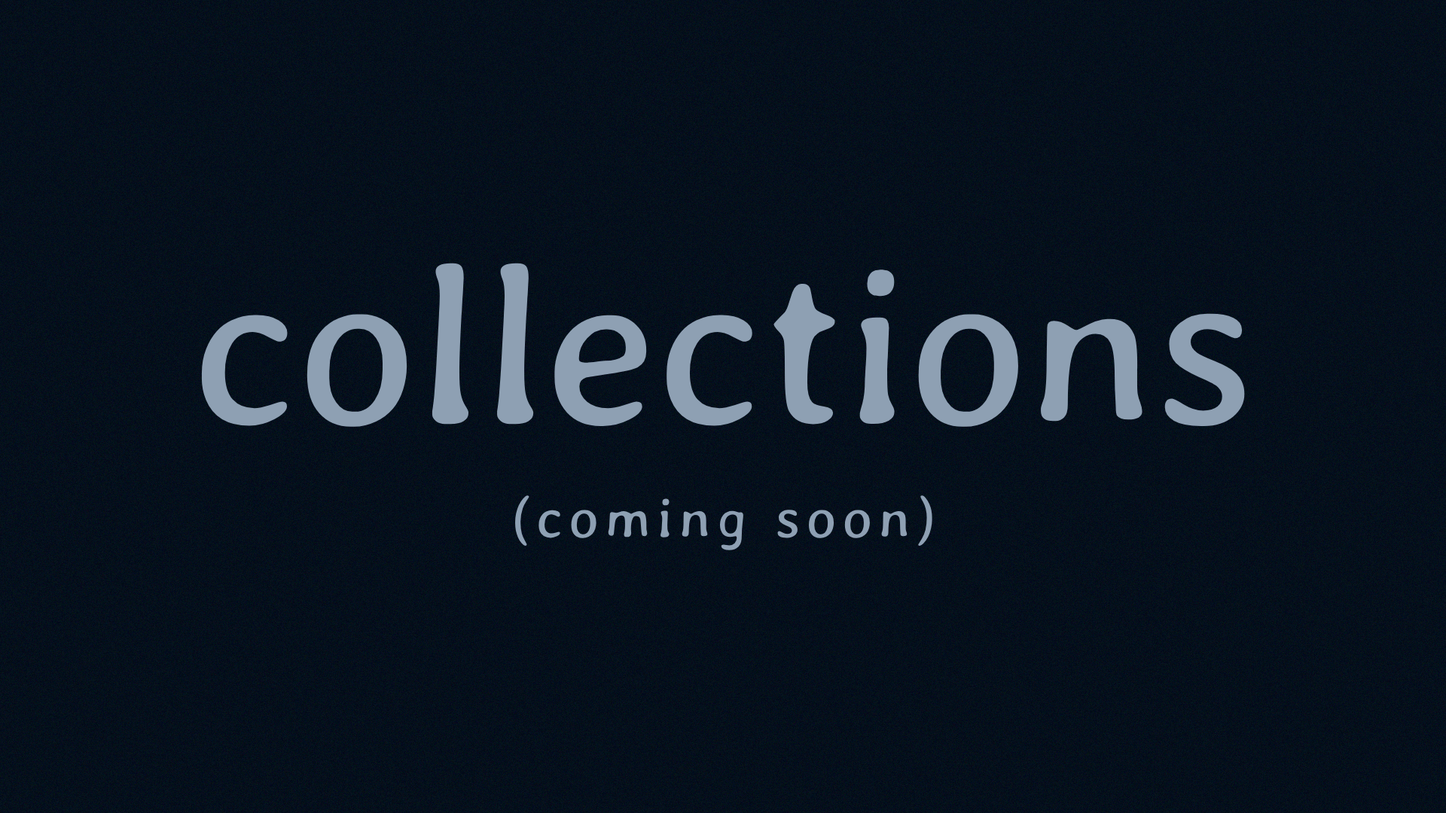
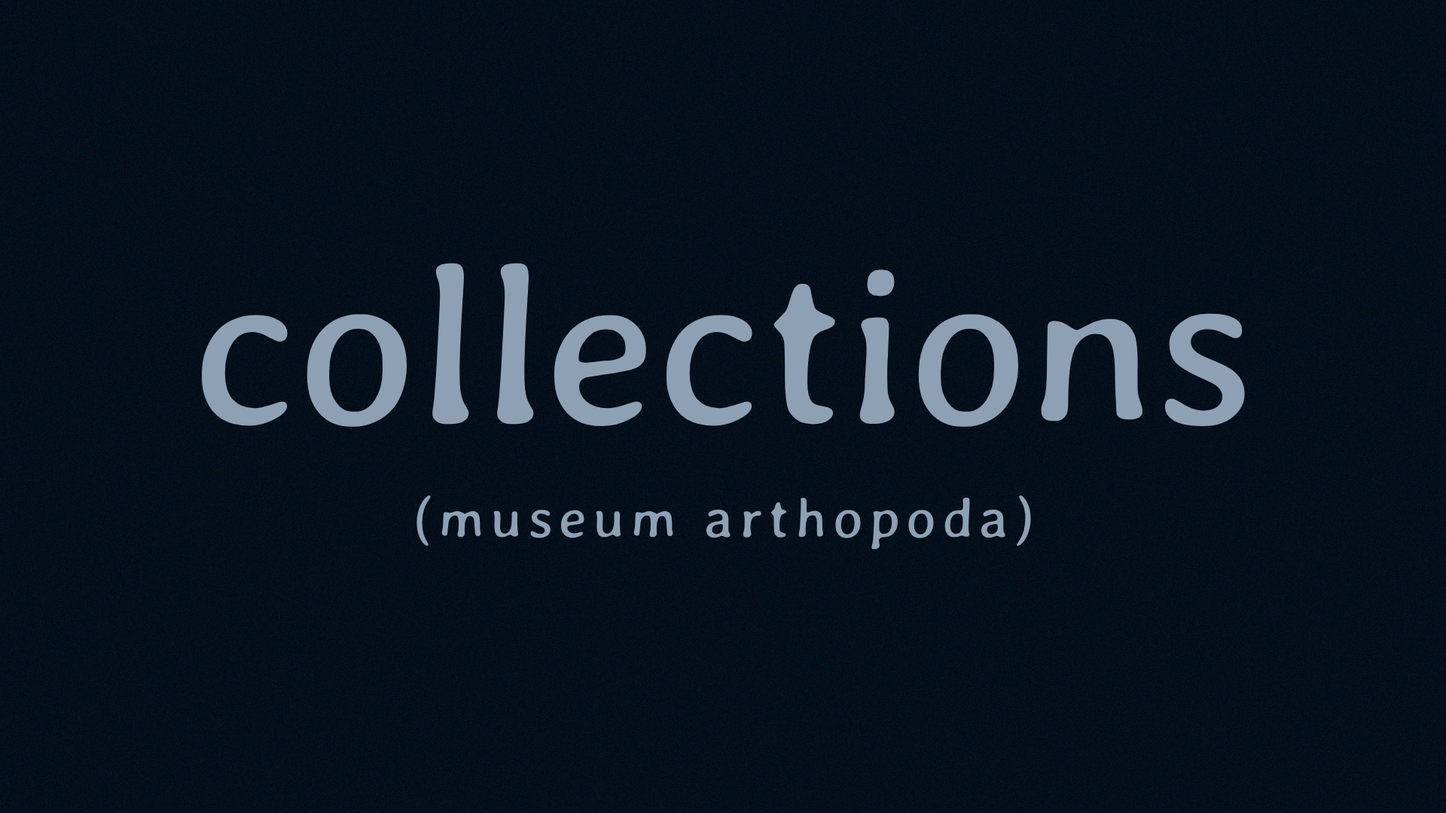
Additions. fix museum.

Changed region(s): [[0.2812, 0.6111, 0.7188, 0.6722]]

diff --git a/app/do-we-all-dream/page.tsx b/app/do-we-all-dream/page.tsx
@@ -1,16 +1,29 @@
 // app/tracks/intro/page.tsx
 "use client"; // Mark this as a client-side component if you use hooks like useParams
+import styles from "../../styles/Basic_page.module.css";
 
 export default function IntroTrackPage() {
   return (
-    <div className="track-page">
-      <h1>Do We All Dream</h1>
-      <p>This is the page for Do We All Dream</p>
-      <img
-        src="/tracks/circadia.jpg"
-        alt="Track 11: Do We All Dream"
-        className="track-image"
-      />
+    <div className={styles.basicpage_background_blue}>
+      <p style={{ fontFamily: "blzee", fontSize: "3rem", color: "aliceblue"}}>I want to believe<br></br>
+      We're all the same<br></br>
+      That we go to the same place when<br></br>
+      We all close our eyes<br></br>
+      And make lovely colors dance<br></br>
+      Hand in hand<br></br>
+      Will I see you there?<br></br>
+      On the shore of placid waters<br></br>
+      With gentle stars above and<br></br>
+      Soft sands below<br></br>
+      And will I hear you?<br></br>
+      Wings and feet and whispers and stings<br></br>
+      Do we all dream?<br></br>
+      Will we all be there?<br></br></p>
+
+      <img src="tracks/do_we_all_dream_content_001.png" alt="bedbugs" style={{ display: "flex", margin: "0 auto", paddingBottom: "3rem", maxWidth: "800px"}}></img>
+
+      <img src="tracks/do_we_all_dream_content_002.png" alt="bedbugs" style={{ display: "flex", margin: "0 auto", paddingBottom: "3rem", maxWidth: "800px"}}></img>
+
     </div>
   );
 }

diff --git a/app/api/upload/route.ts b/app/api/upload/route.ts
@@ -25,21 +25,25 @@ function uploadBufferToCloudinary(buffer: Buffer): Promise<UploadApiResponse> {
 }
 
 export async function POST(req: Request) {
-  const formData = await req.formData();
-  const file = formData.get("file");
+  try {
+    const formData = await req.formData();
+    const file = formData.get("file");
 
-  if (!file || typeof file === "string") {
-    console.error("Invalid file:", file);
-    return NextResponse.json({ success: false, error: "No file uploaded" }, { status: 400 });
+    if (!file || typeof file === "string") {
+      console.error("Invalid file:", file);
+      return NextResponse.json({ success: false, error: "No file uploaded" }, { status: 400 });
+    }
+
+    const buffer = Buffer.from(await (file as Blob).arrayBuffer());
+
+    const result = await uploadBufferToCloudinary(buffer);
+
+    const secureUrl = result.secure_url.replace('/upload/', '/upload/f_auto/');
+
+    return NextResponse.json({ success: true, secure_url: secureUrl });
+  } catch (error) {
+    console.error("Upload failed:", error);
+    return NextResponse.json({ success: false, error: "Upload failed" }, { status: 500 });
   }
-
-  const buffer = Buffer.from(await (file as Blob).arrayBuffer());
-
-  const result = await uploadBufferToCloudinary(buffer);
-
-  const secureUrl = result.secure_url.replace('/upload/', '/upload/f_auto/');
-
-  // return NextResponse.json({ success: true, secure_url: result.secure_url });
-
-  return NextResponse.json({ success: true, secure_url: secureUrl });
 }
+

diff --git a/app/undeniable-truths/page.tsx b/app/undeniable-truths/page.tsx
@@ -1,16 +1,39 @@
 // app/tracks/intro/page.tsx
 "use client"; // Mark this as a client-side component if you use hooks like useParams
+import styles from '../../styles/Basic_page.module.css';
+
+
 
 export default function IntroTrackPage() {
   return (
-    <div className="track-page">
-      <h1>In Amber</h1>
-      <p>This is the page for Gossamer!!!!!!!</p>
-      <img
-        src="/tracks/circadia.jpg"
-        alt="Track 1: Intro"
-        className="track-image"
-      />
+
+
+    <div className={styles.basicpage_background_blue}>
+
+        <iframe
+          width="100%"
+          height="500"
+          src="https://youtu.be/0iPv9sL2sMk"
+          title="YouTube video player"
+          frameBorder="0"
+          allow="accelerometer; autoplay; clipboard-write; encrypted-media; gyroscope; picture-in-picture"
+          allowFullScreen
+        />
+
+        <p>
+          The undeniable.<br></br>
+          You're made of everything.<br></br>
+          You've left your mark just by concentrating and dissolving.<br></br>
+          By expanding and contracting <br></br>
+          Consuming and propagating.<br></br>
+          Time will hold you.<br></br>
+          It already does.<br></br>
+          You can let yourself be carried --<br></br>
+          You'll be carried anyway.<br></br>
+          The inevitable<br></br>
+          It's already here. <br></br>
+        </p>
+
     </div>
   );
-}
+};

diff --git a/app/page.tsx b/app/page.tsx
@@ -16,8 +16,7 @@ const tracks = [
   { src: 'shutter-speed.png', link: '/shutter-speed', title: 'Shutter Speed', },
   { src: 'omyx-speciosus.png', link: '/omyx-speciosus', title: 'Omyx speciosus', },
   { src: 'undeniable-truths.png', link: '/undeniable-truths', title: 'Undeniable Truths', },
-  { src: 'undeniable-truths.png', link: '/do-we-all-dream', title: 'Do We All Dream', },
-  { src: 'inamber-outro-v002.png', link: '/outro', title: 'Outro', },
+  { src: 'do_we_all_dream.png', link: '/do-we-all-dream', title: 'Do We All Dream?', },
   { src: 'inamber-theory.png', link: '/theory', title: 'theory', },
   { src: 'inamber-collections.png', link: '/collections', title: 'Collections', }
   // Add more tracks as needed

diff --git a/app/api/images/route.ts b/app/api/images/route.ts
@@ -125,8 +125,7 @@ export async function GET() {
       secure_url: string;
     };
 
-    const imageUrls = result.resources.map((file: CloudinaryImage) => file.secure_url);
-
+    const imageUrls = (result.resources || []).map((file: CloudinaryImage) => file.secure_url);
 
     return NextResponse.json(imageUrls);
   } catch (error) {
